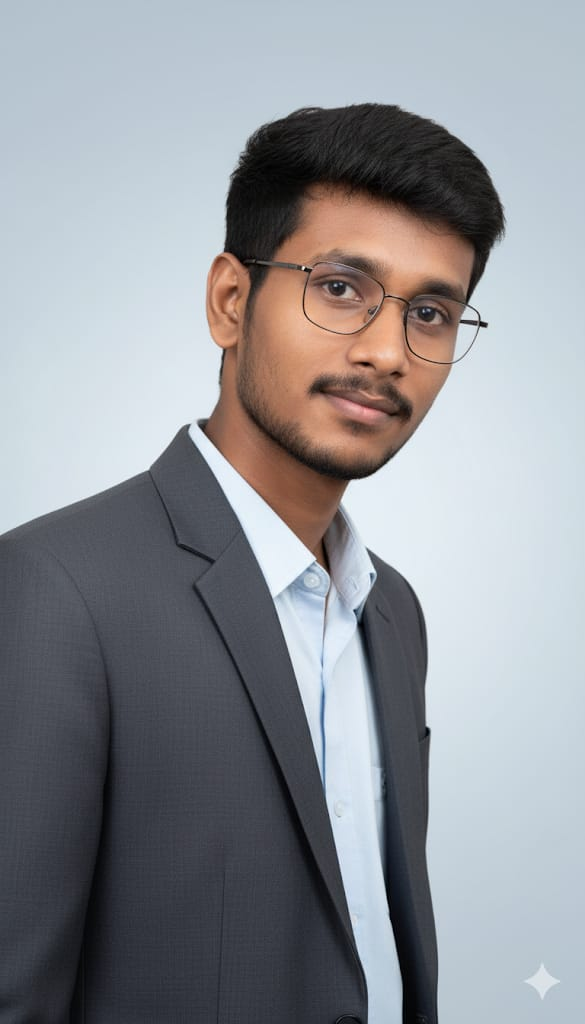
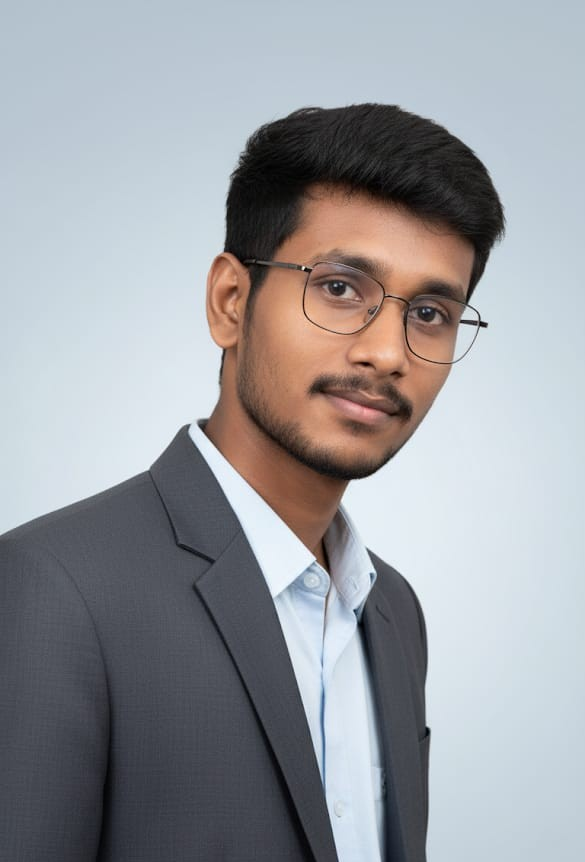
modify : team page by shashi

diff --git a/src/components/data/teamData.tsx b/src/components/data/teamData.tsx
@@ -4,58 +4,62 @@ export interface TeamMember {
 }
 
 export const organizationTeam: TeamMember[] = [
-    { name: "Abdul", image: "/team-images/abdul1.jpg" },
-    { name: "Kiran", image: "/team-images/kiran1.jpg" },
-    { name: "Jaindeep", image: "/team-images/jaideep31 (1).JPG" },
-    { name: "Nivashini", image: "/team-images/nivashini21.JPG" },
-    { name: "Abhiram", image: "/team-images/abhiram1.jpg" },
+    { name: "S Abdul Hameed", image: "/team-images/abdul1.jpg" },
+    { name: "C Kiran", image: "/team-images/kiran1.jpg" },
+    { name: "T Kavya", image: "/team-images/kavyasac.jpg" },
+    { name: "S Jaideep", image: "/team-images/jaideep31 (1).JPG" },
+    { name: "B N Nivashini", image: "/team-images/nivashini21.JPG" },
+    { name: "S P Abhiram", image: "/team-images/abhiram1.jpg" },
 ];
 
 export const promotionTeam: TeamMember[] = [
-    { name: "Mohith", image: "/team-images/mohith41.JPG" },
+    
     { name: "Surya", image: "/team-images/surya3 (1).JPG" },
-    { name: "Kavyanjali", image: "/team-images/kavyanjali (1).JPG" },
+    { name: "A Kavyanjali", image: "/team-images/kavyanjali (1).JPG" },
     { name: "Anusha", image: "/team-images/anusha21 (1).JPG" },
     { name: "Lithish", image: "/team-images/lithish (1).JPG" },
+    { name: "Premchand", image: "/team-images/premchand2 (1).JPG" },
 ];
 
 export const websiteTeam: TeamMember[] = [
-    { name: "Shashi", image: "/team-images/shashikumar.jpeg" },
-    { name: "Amrutha", image: "/team-images/ammu (1).jpeg" },
-    { name: "Hema", image: "/team-images/hematech (1).jpeg" },
+    { name: "K Shashi Kumar", image: "/team-images/shashikumar.jpeg" },
+    { name: "P Amrutha", image: "/team-images/ammu (1).jpeg" },
+    { name: "S Hema Chandrika", image: "/team-images/hematech (1).jpeg" },
 ];
 
 export const smdcTeam: TeamMember[] = [
-    { name: "Harsha", image: "/team-images/harshasmdc (1).JPG" },
-    { name: "Vaishnavi", image: "/team-images/vyshnavi31.JPG" },
+    { name: "N Mohith", image: "/team-images/mohith41.JPG" },
+    { name: "A P Vaishnavi", image: "/team-images/vyshnavi31.JPG" },
     { name: "Sai ganesh", image: "/team-images/saiganesh2 (1).JPG" },
-    { name: "Lahari", image: "/team-images/lehari2 (1).JPG" },
-    { name: "Premchand", image: "/team-images/premchand2 (1).JPG" },
-    { name: "Sujan", image: "/team-images/sujan2 (1).JPG" },
+    { name: "N Lahari", image: "/team-images/lehari2 (1).JPG" },
     { name: "Sailesh", image: "/team-images/sailesh21.JPG" },
+    { name: "Sujan", image: "/team-images/sujan2 (1).JPG" },
+    { name: "DV Sai Praharsha", image: "/team-images/harshasmdc (1).JPG" },
+    
 ];
 
 export const technicalTeam: TeamMember[] = [
-    { name: "Praveen", image: "/team-images/praveentechnical (1).JPG" },
-    { name: "Kishore", image: "/team-images/kishore (1).JPG" },
-    { name: "Moksha", image: "/team-images/moksha (1).JPG" },
-    { name: "Mohitha", image: "/team-images/mohitha2 (1).JPG" },
-    { name: "Mahesh", image: "/team-images/mahesh (1).JPG" },
+    { name: "Y Praveen Kumar", image: "/team-images/praveentechnical (1).JPG" },
+    { name: "E Kishore", image: "/team-images/kishore (1).JPG" },
+    { name: "K P Mohitha", image: "/team-images/mohitha2 (1).JPG" },
+    { name: "G Mokshagna", image: "/team-images/moksha (1).JPG" },
+    { name: "M Mahesh Kumar", image: "/team-images/mahesh (1).JPG" },
 ];
 
 export const sportsTeam: TeamMember[] = [
-    { name: "Asif", image: "/team-images/asif4th (1).JPG" },
-    { name: "Siva ", image: "/team-images/siva4th (1).JPG" },
-    { name: "Kiran", image: "/team-images/kiransports (1).JPG" },
-    { name: "Shamitha", image: "/team-images/shamitha (1).JPG" },
-    { name: "Tejaswini", image: "/team-images/tejaswini4th.JPG" },
-    { name: "Narasimhulu", image: "/team-images/narasimhulu (1).JPG" },
+    { name: "S Asif Hussain", image: "/team-images/asif4th (1).JPG" },
+    { name: "J Siva Keerthana", image: "/team-images/siva4th (1).JPG" },
+    { name: "M Kiran Kumar", image: "/team-images/kiransports (1).JPG" },
+    { name: "J Shamitha Reddy", image: "/team-images/shamitha (1).JPG" },
+    { name: "D Tejaswi", image: "/team-images/tejaswini4th.JPG" },
+    { name: "P Narasimhulu", image: "/team-images/narasimhulu (1).JPG" },
 ];
 
 export const culturalTeam: TeamMember[] = [
-    { name: "Hemanth", image: "/team-images/hemanth2 (1).JPG" },
-    { name: "Sravanth", image: "/team-images/sravanth3rd.JPG" },
-    { name: "Rishitha", image: "/team-images/rishitha3rd (1).JPG" },
-    { name: "Lahari", image: "/team-images/lahari3rd (1).jpg" },
-    { name: "Prasadh", image: "/team-images/prasadh (1).JPG" },
+    { name: "J Hemanth Kumar", image: "/team-images/hemanth2 (1).JPG" },
+    { name: "B Prasad", image: "/team-images/prasadh (1).JPG" },
+    { name: "KV Sravanth", image: "/team-images/sravanth3rd.JPG" },
+    { name: "N Sai Rishitha", image: "/team-images/rishitha3rd (1).JPG" },
+    { name: "K Lakshmi Lahari", image: "/team-images/lahari3rd (1).jpg" },
+    
 ];

diff --git a/src/components/team/TeamCard.tsx b/src/components/team/TeamCard.tsx
@@ -21,17 +21,30 @@ const TeamCard = ({ member, index, variant = "default" }: TeamCardProps) => (
         transition={{ duration: 0.5, delay: index * 0.08 }}
         className={`group rounded-2xl overflow-hidden ${variants[variant]} transition-all duration-300`}
     >
-        <div className="relative overflow-hidden aspect-[3/4]">
+        <div className="relative overflow-hidden aspect-[3/4] group-hover:shadow-lg transition-all duration-500">
             <img
                 src={member.image}
                 alt={member.name}
-                className="w-full h-full object-cover object-center transition-transform duration-500 group-hover:scale-110"
+                className="w-full h-full object-cover object-center transition-transform duration-500 group-hover:scale-110 contrast-125 saturate-125 brightness-110"
                 loading="lazy"
             />
-            <div className="absolute inset-0 bg-gradient-to-t from-background/90 via-background/20 to-transparent" />
+            <div className="absolute inset-0 from-background/90 via-background/20 to-transparent" />
+
+            {/* HD Glare Shimmy Effect */}
+            <motion.div
+                className="absolute inset-0 w-full h-full bg-gradient-to-tr from-transparent via-white/30 to-transparent z-10"
+                initial={{ x: "-100%", opacity: 0 }}
+                animate={{ x: "200%", opacity: [0, 1, 0] }}
+                transition={{
+                    repeat: Infinity,
+                    duration: 2,
+                    ease: "easeInOut",
+                    repeatDelay: 3
+                }}
+            />
         </div>
         <div className="p-4 text-center">
-            <h3 className="font-display font-semibold text-lg text-transparent bg-clip-text bg-gradient-to-r from-pink-500 to-cyan-500">{member.name}</h3>
+            <h3 className="font-display font-semibold text-md text-transparent bg-clip-text bg-gradient-to-r from-pink-500 to-cyan-500">{member.name}</h3>
             <p className="text-sm text-primary mt-1">{ }</p>
         </div>
     </motion.div>

diff --git a/src/components/team/TeamSection.tsx b/src/components/team/TeamSection.tsx
@@ -10,20 +10,29 @@ interface Props {
     className?: string;
 }
 
-const colsMap = {
-    3: "grid-cols-3 sm:grid-cols-6 lg:grid-cols-5",
-    4: "grid-cols-3 sm:grid-cols-4 lg:grid-cols-5",
-    5: "grid-cols-3 sm:grid-cols-4 lg:grid-cols-5",
-    6: "grid-cols-3 sm:grid-cols-6 lg:grid-cols-6",
+const containerMap = {
+    3: "max-w-3xl",
+    4: "max-w-5xl",
+    5: "max-w-6xl",
+    6: "max-w-7xl",
+};
+
+const itemClassMap = {
+    3: "w-full sm:w-[calc(50%-1rem)] lg:w-[calc(33.333%-1.4rem)]",
+    4: "w-full sm:w-[calc(50%-1rem)] lg:w-[calc(25%-1.7rem)]",
+    5: "w-[calc(50%-1rem)] sm:w-[calc(33.333%-1.4rem)] lg:w-[calc(20%-1.7rem)]",
+    6: "w-[calc(50%-1rem)] sm:w-[calc(33.333%-1.4rem)] lg:w-[calc(16.666%-1.75rem)]",
 };
 
 const TeamSection = ({ title, members, columns = 4, variant = "default", className = "" }: Props) => (
     <section className={`py-20 px-4 md:px-8 ${className}`}>
-        <div className="max-w-7xl mx-auto">
+        <div className={`${containerMap[columns] || "max-w-7xl"} mx-auto`}>
             <SectionHeading title={title} />
-            <div className={`grid ${colsMap[columns]} gap-8 justify-items-center`}>
+            <div className="flex flex-wrap justify-center gap-8">
                 {members.map((m, i) => (
-                    <TeamCard key={m.name} member={m} index={i} variant={variant} />
+                    <div key={m.name} className={itemClassMap[columns] || "w-full"}>
+                        <TeamCard member={m} index={i} variant={variant} />
+                    </div>
                 ))}
             </div>
         </div>

diff --git a/src/pages/TeamPage.tsx b/src/pages/TeamPage.tsx
@@ -7,7 +7,7 @@ import {
   organizationTeam,
   promotionTeam,
   websiteTeam,
-  smdcTeam,
+  smdcTeam, 
   technicalTeam,
   sportsTeam,
   culturalTeam,
@@ -22,15 +22,15 @@ const Index = () => (
     </div>
     <HeroSection />
 
-    <TeamSection title="Organization Team" members={organizationTeam} columns={5} />
+    <TeamSection title="Organizing Team" members={organizationTeam} columns={6} className="!pt-0" />
     <TeamSection title="Promotion Team" members={promotionTeam} columns={5} />
-    <TeamSection title="Spark Website Team" members={websiteTeam} columns={3} />
-    <TeamSection title="SMDC Team" members={smdcTeam} columns={4} />
+    <TeamSection title="Spark Website Team" members={websiteTeam} columns={5} />
+    <TeamSection title="SMDC Team" members={smdcTeam} columns={5} />
     <TeamSection title="Technical Team" members={technicalTeam} columns={5} />
     <TeamSection title="Sports Team" members={sportsTeam} columns={6} />
     <TeamSection title="Cultural Team" members={culturalTeam} columns={5} />
     <FooterCTA />
-    <Footer/>
+    <Footer />
   </main>
 
 );

diff --git a/src/components/team/HeroSection.tsx b/src/components/team/HeroSection.tsx
@@ -1,7 +1,7 @@
 import { motion } from "framer-motion";
 
 const HeroSection = () => (
-  <section className="relative min-h-[70vh] flex items-center justify-center bg-gradient-hero overflow-hidden">
+  <section className="relative min-h-[50vh] flex items-center justify-center bg-gradient-hero overflow-hidden">
     {/* Floating orbs */}
     <div className="absolute top-20 left-10 w-72 h-72 rounded-full bg-primary/10 blur-3xl animate-pulse-glow" />
     <div className="absolute bottom-10 right-20 w-96 h-96 rounded-full bg-accent/10 blur-3xl animate-pulse-glow" style={{ animationDelay: "1.5s" }} />
